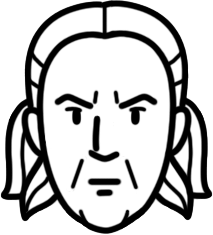
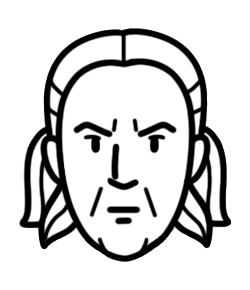
update images, add tooltips

diff --git a/index.html b/index.html
@@ -3,7 +3,7 @@
 <head>
   <meta charset="UTF-8">
   <meta name="viewport" content="width=device-width, initial-scale=1">
-  <title>Bingo</title>
+  <title>GAME OF THRONES Bingo</title>
 </head>
 <style type="text/css">
   .main-container {
@@ -43,25 +43,41 @@
     border-radius: 4px;
     align-items: center;
     justify-content: center;
+    cursor: pointer;
+    position: relative;
+  }
+
+  .tooltip {
+    top: 25px;
+    left: 65px;
+    display: none;
+    position: absolute;
+    z-index: 100;
+    padding: 4px;
+    border-style: solid;
+    border-color: #FFF2A7;
+    border-width: 1px;
+    border-radius: 4px;
+    background-color: #FFF2A7;
+    color: black;
   }
 
   @media (hover: hover) {
-    .row:hover {
-      background-color: #d46058;
+    .row:hover .tooltip {
+      display: block;
     }
   }
 
   .row.selected {
-    background-color: #d46058;
+    background-color: #D16773;
   }
   .image-wrapper {
-    width: 60%;
+    width: 70%;
     margin: auto;
-    cursor: pointer;
   }
   .row img {
     display: block;
-    width: 50px;
+    width: 55px;
     height: auto;
     margin-top: -4px;
     margin-left: -2px;
@@ -74,6 +90,8 @@
     border-radius: 4px;
     cursor: pointer;
     outline: none;
+    background-color: white;
+    color: black;
   }
   .button:active {
     border-width: 3px;
@@ -105,6 +123,21 @@
     z-index: 100;
   }
 
+  .developer {
+    text-align: right;
+    width: 100%;
+    padding-top: 30px;
+  }
+
+  .developer a {
+    text-decoration: none;
+    color: darkgrey;
+  }
+
+  .developer a:hover {
+    color: dimgray;
+  }
+
   @media (min-width: 320px) and (max-width: 480px) {
     .main-container {
       min-width: 300px;
@@ -118,6 +151,10 @@
     .row img {
       width: 38px;
     }
+
+    .developer {
+      text-align: center;
+    }
   }
 </style>
 <body>
@@ -125,8 +162,8 @@
   <div class="copyright-container">
     <img width="120" src="img/copyright.png">
   </div>
-  <h1>ИГРА ПРЕСТОЛОВ</h1>
-  <h2>СМЕРТЕЛЬНОЕ БИНГО</h2>
+  <h1>GAME OF THRONES</h1>
+  <h2>DEATH BINGO</h2>
   <div>
 
   </div>
@@ -142,137 +179,162 @@
     </div>
 
     <div class="column">
-      <div class="row selected">
+      <div class="row">
         <div class="image-wrapper">
-          <img src="img/avatar-1.png" alt="">
+          <img src="img/avatar-1.png" alt="Tormund Giantsbane">
+          <span class="tooltip">Tormund Giantsbane</span>
         </div>
       </div>
       <div class="row">
         <div class="image-wrapper">
-          <img src="img/avatar-2.png" alt="">
+          <img src="img/avatar-2.png" alt="Daenerys Targaryen">
+          <span class="tooltip">Daenerys Targaryen</span>
         </div>
       </div>
       <div class="row">
         <div class="image-wrapper">
-          <img src="img/avatar-3.png" alt="">
+          <img src="img/avatar-3.png" alt="Jon Snow">
+          <span class="tooltip">Jon Snow</span>
         </div>
       </div>
       <div class="row">
         <div class="image-wrapper">
-          <img src="img/avatar-4.png" alt="">
+          <img src="img/avatar-4.png" alt="Arya Stark">
+          <span class="tooltip">Arya Stark</span>
         </div>
       </div>
       <div class="row">
         <div class="image-wrapper">
-          <img src="img/avatar-5.png" alt="">
-        </div>
-      </div>
-    </div>
-    <div class="column">
-      <div class="row">
-        <div class="image-wrapper">
-          <img src="img/avatar-6.png" alt="">
-        </div>
-      </div>
-      <div class="row">
-        <div class="image-wrapper">
-          <img src="img/avatar-7.png" alt="">
-        </div>
-      </div>
-      <div class="row">
-        <div class="image-wrapper">
-          <img src="img/avatar-8.png" alt="">
-        </div>
-      </div>
-      <div class="row">
-        <div class="image-wrapper">
-          <img src="img/avatar-9.png" alt="">
-        </div>
-      </div>
-      <div class="row">
-        <div class="image-wrapper">
-          <img src="img/avatar-10.png" alt="">
+          <img src="img/avatar-5.png" alt="Tyrion Lannister">
+          <span class="tooltip">Tyrion Lannister</span>
         </div>
       </div>
     </div>
     <div class="column">
       <div class="row">
         <div class="image-wrapper">
-          <img src="img/avatar-11.png" alt="">
+          <img src="img/avatar-6.png" alt="Grey Worm">
+          <span class="tooltip">Grey Worm</span>
         </div>
       </div>
       <div class="row">
         <div class="image-wrapper">
-          <img src="img/avatar-12.png" alt="">
+          <img src="img/avatar-7.png" alt="Podrick Payne">
+          <span class="tooltip">Podrick Payne</span>
         </div>
       </div>
       <div class="row">
         <div class="image-wrapper">
-          <img src="img/avatar-13.png" alt="">
+          <img src="img/avatar-8.png" alt="Brienne of Tarth">
+          <span class="tooltip">Brienne of Tarth</span>
         </div>
       </div>
       <div class="row">
         <div class="image-wrapper">
-          <img src="img/avatar-14.png" alt="">
+          <img src="img/avatar-9.png" alt="Varys">
+          <span class="tooltip">Varys</span>
         </div>
       </div>
       <div class="row">
         <div class="image-wrapper">
-          <img src="img/avatar-15.png" alt="">
-        </div>
-      </div>
-    </div>
-    <div class="column">
-      <div class="row">
-        <div class="image-wrapper">
-          <img src="img/avatar-16.png" alt="">
-        </div>
-      </div>
-      <div class="row">
-        <div class="image-wrapper">
-          <img src="img/avatar-17.png" alt="">
-        </div>
-      </div>
-      <div class="row">
-        <div class="image-wrapper">
-          <img src="img/avatar-18.png" alt="">
-        </div>
-      </div>
-      <div class="row">
-        <div class="image-wrapper">
-          <img src="img/avatar-19.png" alt="">
-        </div>
-      </div>
-      <div class="row">
-        <div class="image-wrapper">
-          <img src="img/avatar-20.png" alt="">
+          <img src="img/avatar-10.png" alt="Sandor 'The Hound' Clegane">
+          <span class="tooltip">Sandor "The Hound" Clegane</span>
         </div>
       </div>
     </div>
     <div class="column">
       <div class="row">
         <div class="image-wrapper">
-          <img src="img/avatar-21.png" alt="">
+          <img src="img/avatar-11.png" alt="Davos Seaworth">
+          <span class="tooltip">Davos Seaworth</span>
         </div>
       </div>
       <div class="row">
         <div class="image-wrapper">
-          <img src="img/avatar-22.png" alt="">
+          <img src="img/avatar-12.png" alt="Sansa Stark">
+          <span class="tooltip">Sansa Stark</span>
         </div>
       </div>
       <div class="row">
         <div class="image-wrapper">
-          <img src="img/avatar-23.png" alt="">
+          <img src="img/avatar-13.png" alt="Bronn">
+          <span class="tooltip">Bronn</span>
         </div>
       </div>
       <div class="row">
         <div class="image-wrapper">
-          <img src="img/avatar-24.png" alt="">
+          <img src="img/avatar-14.png" alt="Samwell Tarly">
+          <span class="tooltip">Samwell Tarly</span>
         </div>
       </div>
       <div class="row">
         <div class="image-wrapper">
-          <img src="img/avatar-25.png" alt="">
+          <img src="img/avatar-15.png" alt="Jaime Lannister">
+          <span class="tooltip">Jaime Lannister</span>
+        </div>
+      </div>
+    </div>
+    <div class="column">
+      <div class="row">
+        <div class="image-wrapper">
+          <img src="img/avatar-16.png" alt="Yara Greyjoy">
+          <span class="tooltip">Yara Greyjoy</span>
+        </div>
+      </div>
+      <div class="row">
+        <div class="image-wrapper">
+          <img src="img/avatar-17.png" alt="Bran Stark">
+          <span class="tooltip">Bran Stark</span>
+        </div>
+      </div>
+      <div class="row">
+        <div class="image-wrapper">
+          <img src="img/avatar-18.png" alt="Qyburn">
+          <span class="tooltip">Qyburn</span>
+        </div>
+      </div>
+      <div class="row">
+        <div class="image-wrapper">
+          <img src="img/avatar-19.png" alt="Drogon">
+          <span class="tooltip">Drogon</span>
+        </div>
+      </div>
+      <div class="row">
+        <div class="image-wrapper">
+          <img src="img/avatar-20.png" alt="Missandei">
+          <span class="tooltip">Missandei</span>
+        </div>
+      </div>
+    </div>
+    <div class="column">
+      <div class="row">
+        <div class="image-wrapper">
+          <img src="img/avatar-21.png" alt="Gendry">
+          <span class="tooltip">Gendry</span>
+        </div>
+      </div>
+      <div class="row">
+        <div class="image-wrapper">
+          <img src="img/avatar-22.png" alt="Gregor 'Mountain' Clegane">
+          <span class="tooltip">Gregor "Mountain" Clegane</span>
+        </div>
+      </div>
+      <div class="row">
+        <div class="image-wrapper">
+          <img src="img/avatar-23.png" alt="Cersei Lannister">
+          <span class="tooltip">Cersei Lannister</span>
+        </div>
+      </div>
+      <div class="row">
+        <div class="image-wrapper">
+          <img src="img/avatar-24.png" alt="Euron Greyjoy">
+          <span class="tooltip">Euron Greyjoy</span>
+        </div>
+      </div>
+      <div class="row">
+        <div class="image-wrapper">
+          <img src="img/avatar-25.png" alt="Daario Naharis">
+          <span class="tooltip">Daario Naharis</span>
         </div>
       </div>
     </div>
@@ -285,5 +347,21 @@
   </div>
   <button class="button">SHARE</button>
 </div>
+<div class="developer">
+  <a href="http://kirillnovikov.ru/">developed by Kirill Novikov</a>
+</div>
 </body>
+<script>
+  const avatars = document.getElementsByClassName('row');
+  for (let i = 0; i < avatars.length; i++) {
+      avatars[i].addEventListener('click', function () {
+          const isSelected = this.classList.contains('selected');
+          if (isSelected) {
+              this.classList.remove('selected');
+          } else {
+              this.classList.add('selected');
+          }
+      })
+  }
+</script>
 </html>
